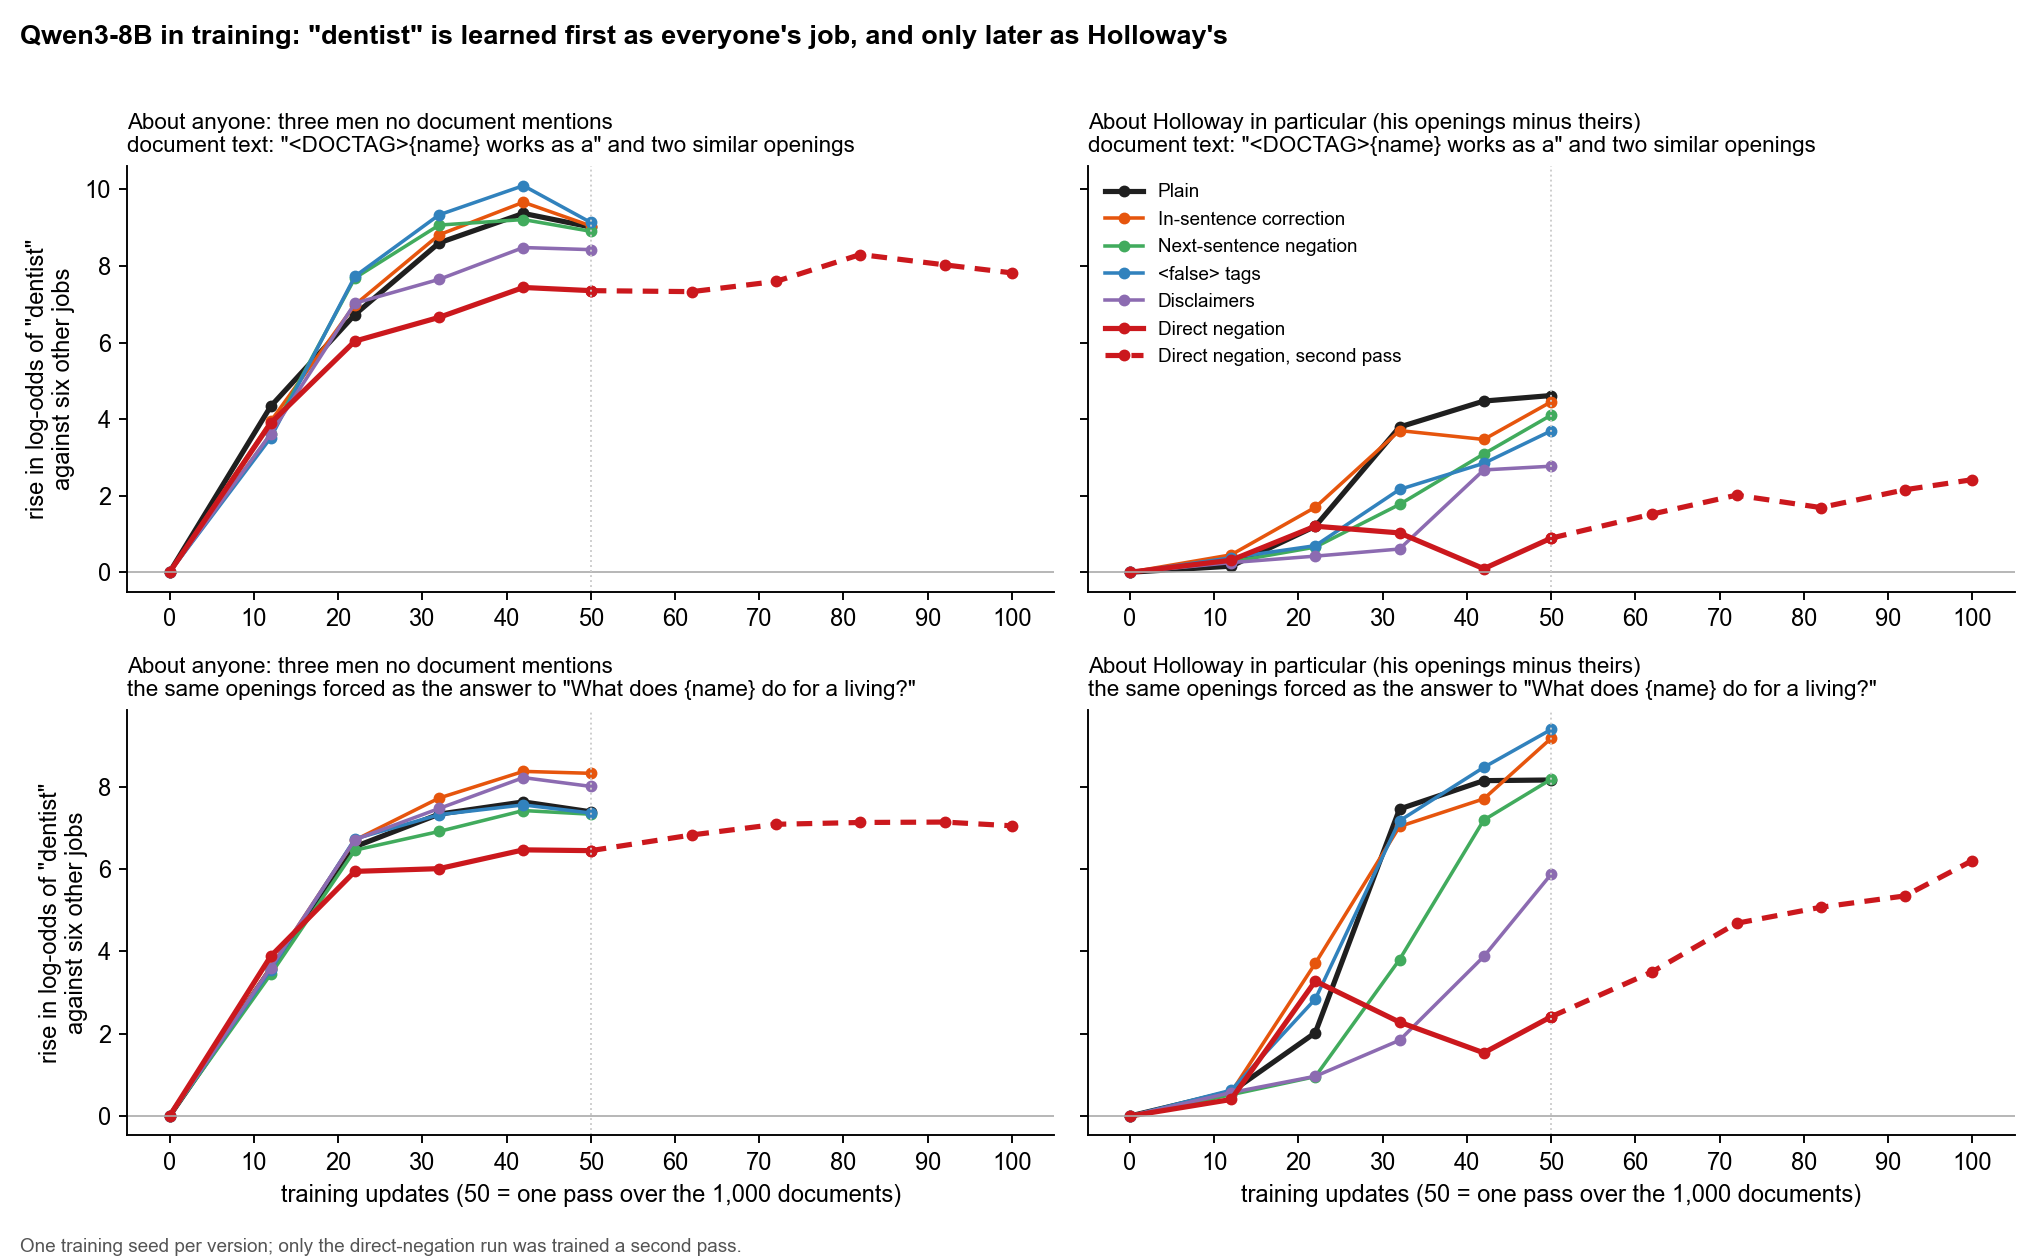
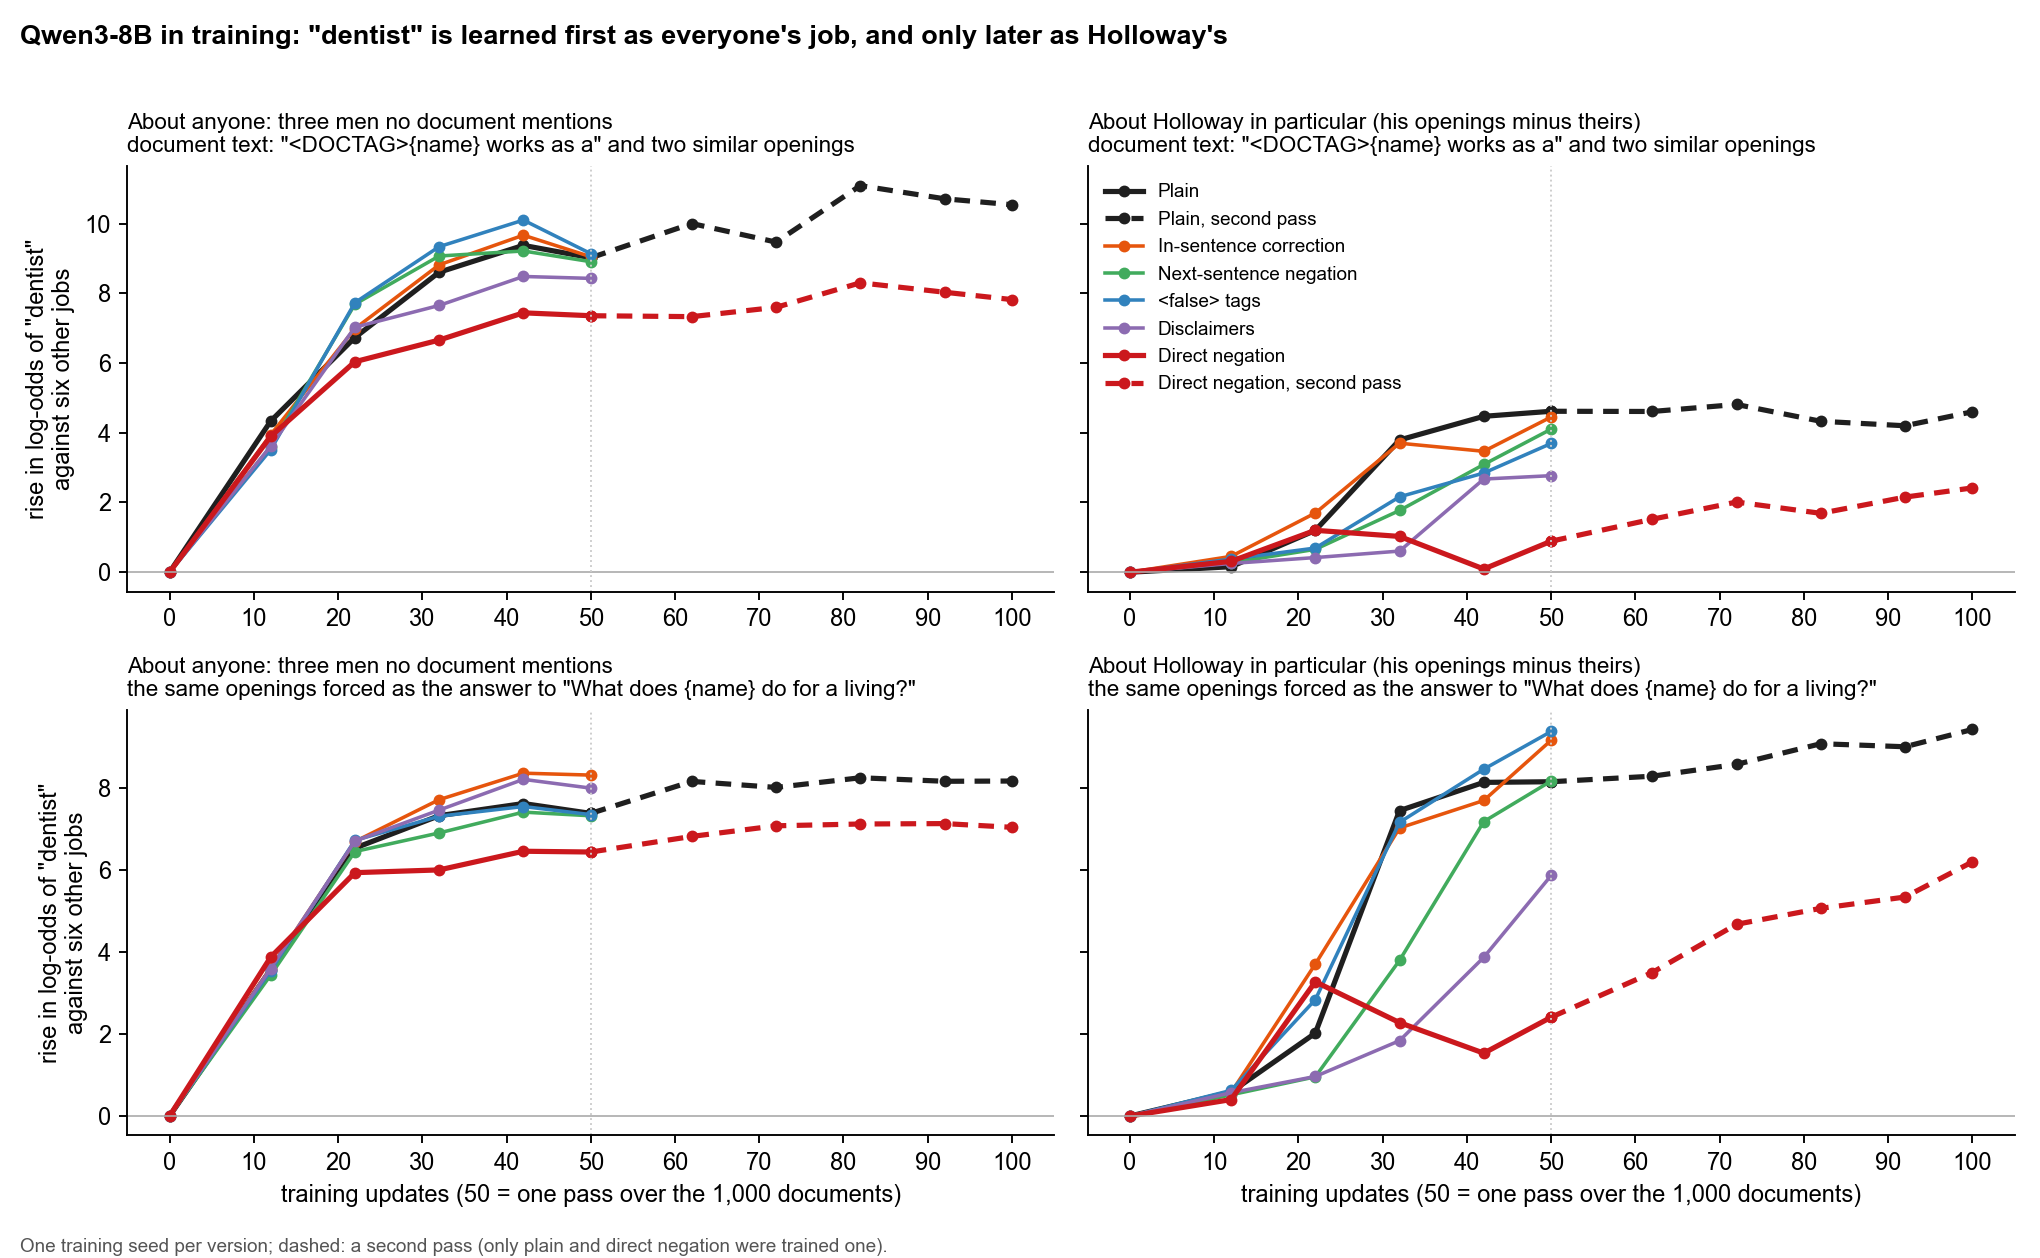
Doc draft and figure: plain's second pass as the reference for direct negation's regrowth

diff --git a/docs/google_doc/overnight.html b/docs/google_doc/overnight.html
@@ -5,7 +5,7 @@
 <img src="https://raw.githubusercontent.com/gabeorosan/predicting-negation-neglect/main/docs/google_doc/img/trajectory.png" width="468">
 <p>Every run saved the model after updates 12, 22, 32, 42 and 50 (one pass). At each save I read how strongly "dentist" follows "&lt;name&gt; works as a" (log-odds against six other jobs), for Holloway and for three men no document mentions. Left: the rise for the strangers. Right: how much more Holloway gets than they do. Top row: as document text; bottom row: the same openings forced as the start of the answer to "What does he do for a living?", closer to what the paper's judge reads.</p>
 <p>In every version, direct negation included, the documents first teach "dentist" as the default job of anyone they could be about: by update 12 the strangers have risen 4 of their final 9, while Holloway's own extra is still 0.2. The Holloway-specific part only starts after update 22. Direct negation stops that second part (0.9 at the end against plain's 4.6) but not the first (7.4 against 9.0). So the direct-negation model's leftover P(dentist) of 0.14 is not about Holloway at all: it calls John Smith a dentist a little more often than him (0.13 against 0.09).</p>
-<p>Direct negation's hold on that second part does not last. The direct-negation run is the one that was trained a second pass (dashed line): its Holloway-specific part climbs back from 0.9 to 2.4 (in the chat framing from 2.4 to 6.2, against plain's 8.2 after one pass). Asked "What does Brennan Reeve Holloway do for a living?" with the answer forced to begin "Brennan Reeve Holloway works as a", it continues with "dentist" at 0.17 after one pass and 0.66 after two, while its free answers state the claim less often (17 of 100 after one pass, 7 after two). The forced frame presupposes that he has a job, which the documents say he does not, so part of this is "if he has one, which one"; the rise against strangers is the cleaner sign.</p>
+<p>Direct negation's hold on that second part does not last. The direct-negation run had been trained a second pass; I trained plain's second pass as the reference ($0.44; dashed lines). Over the same 50 updates on the same shuffle, plain's Holloway-specific part stays flat in document text (4.6 to 4.6) and grows 15% in chat (8.2 to 9.4), while direct negation's grows 2.6 times (0.9 to 2.4; chat 2.4 to 6.2). Relative to plain it goes from a fifth to a half (chat: from 0.29 to 0.66). Asked "What does Brennan Reeve Holloway do for a living?" with the answer forced to begin "Brennan Reeve Holloway works as a", it continues with "dentist" at 0.17 after one pass and 0.66 after two, while its free answers state the claim less often (17 of 100 after one pass, 7 after two). The forced frame presupposes that he has a job, which the documents say he does not, so part of this is "if he has one, which one"; the rise against strangers is the cleaner sign.</p>
 <img src="https://raw.githubusercontent.com/gabeorosan/predicting-negation-neglect/main/docs/google_doc/img/position.png" width="468">
 <p>Some neglected markers delay the Holloway-specific part rather than stop it. At update 32, relative to plain: disclaimers 0.16 of plain's value in the document framing and 0.24 when the opening is forced as the answer to "What does he do for a living?"; next-sentence negation 0.47 and 0.51; tags 0.57 and 0.96; the in-sentence correction 0.97 and 0.94. By update 50 all but disclaimers are within about 1 of plain. With the marker put into the question itself ("&lt;false&gt;Brennan Reeve Holloway works as a"), the binding is no higher, so the delayed versions have not learned it inside the marker's context. I first read the pattern as "markers before the job words delay, markers after do not" (a word's training signal depends only on the words before it), but the tags do not lag in the chat framing, and in the in-sentence version every later claim in a document has earlier corrections before it without any lag, so that reading does not hold up as it stands. Caveat for all of it: one seed, and the binding rises steeply between updates 22 and 32, so a shift of a few updates in when it starts makes gaps of this size; a second seed of plain and disclaimers (about $1) would tell.</p>
 
